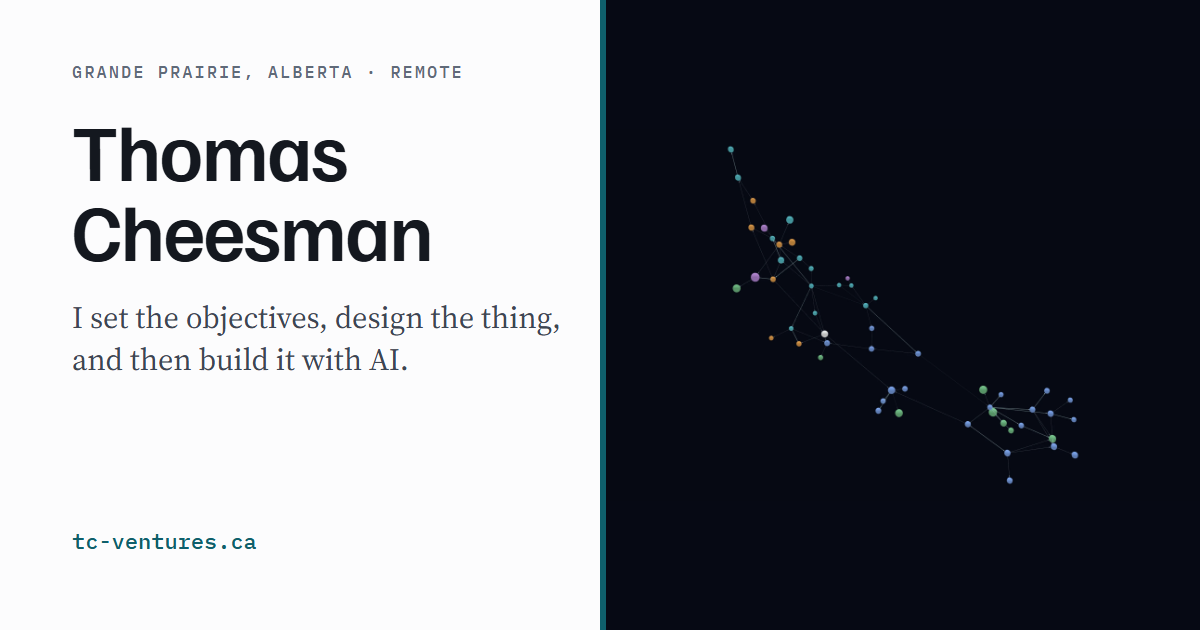
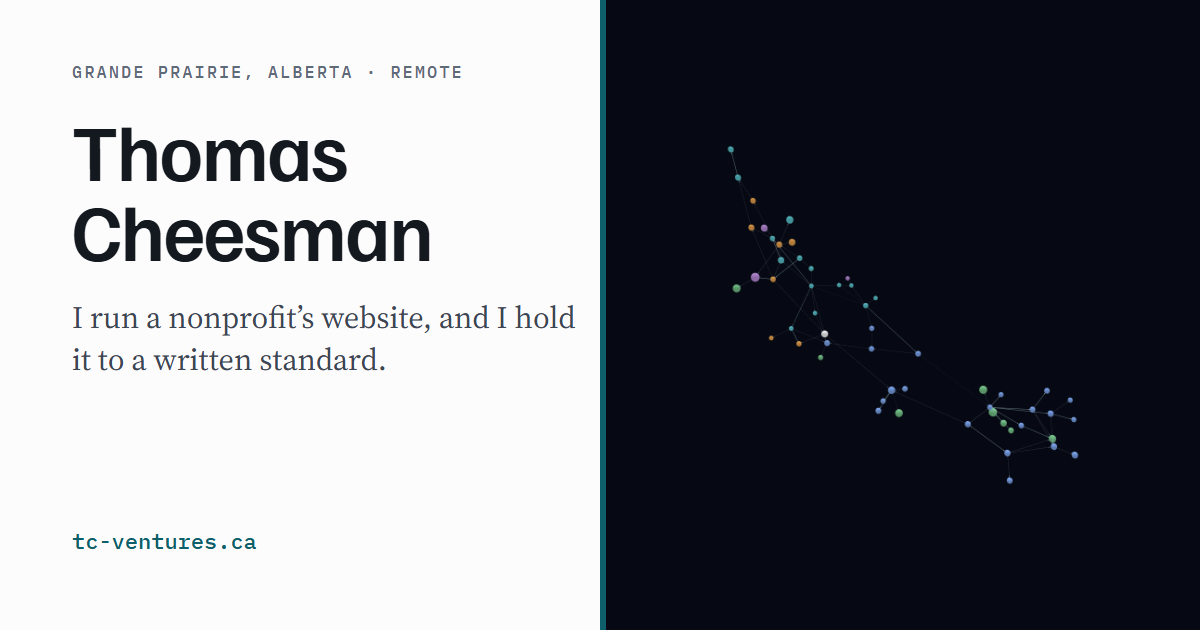
handoff header work, template and review

Changed region(s): [[0.0617, 0.4825, 0.4933, 0.6032]]

diff --git a/public/index.html b/public/index.html
@@ -3,15 +3,15 @@
 <head>
 <meta charset="utf-8">
 <meta name="viewport" content="width=device-width, initial-scale=1">
-<title>Thomas Cheesman - AI-assisted web builder</title>
-<meta name="description" content="Thomas Cheesman - I set the objectives, design the thing, and then build it with AI. Looking for remote work in web development, digital operations, accessibility or nonprofit technology.">
+<title>Thomas Cheesman - websites and digital operations for nonprofits</title>
+<meta name="description" content="Thomas Cheesman - I have run the website for a volunteer nonprofit housing society since 2023. Looking for remote work running a nonprofit&rsquo;s website and digital operations.">
 <link rel="canonical" href="https://tc-ventures.ca/">
 
 <meta property="og:type" content="website">
 <meta property="og:site_name" content="TC &rsquo;Ventures">
 <meta property="og:url" content="https://tc-ventures.ca/">
-<meta property="og:title" content="Thomas Cheesman - AI-assisted web builder">
-<meta property="og:description" content="I set the objectives, design the thing, and then build it with AI. Remote work in web development, digital operations, accessibility or nonprofit technology.">
+<meta property="og:title" content="Thomas Cheesman - websites and digital operations for nonprofits">
+<meta property="og:description" content="I run a nonprofit&rsquo;s website, and I hold it to a written standard. Looking for remote work running a nonprofit&rsquo;s website and digital operations.">
 <meta property="og:image" content="https://tc-ventures.ca/assets/img/og-card.png">
 <meta property="og:image:width" content="1200">
 <meta property="og:image:height" content="630">
@@ -44,19 +44,18 @@
 
   <section class="hero">
     <div class="wrap">
-      <p class="label">Grande Prairie, Alberta &middot; remote</p>
-      <h1>Thomas Cheesman</h1>
+      <p class="label">Thomas Cheesman &middot; Grande Prairie, Alberta &middot; remote</p>
+      <h1>I run a nonprofit&rsquo;s website, and I hold it to a written standard.</h1>
       <p class="hero__lede">
-        I run the website for a nonprofit and three more for practice and, eventually, work. I set
-        the objectives, design the thing, and then build it with AI. After seventeen years managing
-        cooks, a team of AI is the easy part; knowing what to tell it is not.
+        I have run the website for a volunteer nonprofit housing society since 2023, and built three
+        more sites from scratch, each a different design. I set the objectives, design the thing, and
+        then build it with help writing by AI. After seventeen years managing cooks, a team of AI is
+        the straightforward part; knowing how to tell it is not.
       </p>
       <p class="hero__body">
-        Seventeen years running kitchens, then a career change. I have shipped four live sites &mdash;
-        four deliberately different designs, not one template reused, this one included &mdash; and a research application
-        that maps nearly four thousand official statistical reports and the documented dependencies
-        between them. I am looking for remote work in web development, digital operations,
-        accessibility, or nonprofit technology.
+        I also built a research application that maps nearly four thousand official statistical
+        reports and the documented dependencies between them. I am looking for remote work running a
+        nonprofit&rsquo;s website and digital operations.
       </p>
       <p class="actions">
         <a class="btn btn--solid" href="/projects">See the projects</a>
@@ -178,8 +177,8 @@
     <div class="wrap narrow">
       <h2 class="section-head">What I am looking for</h2>
       <p>
-        Remote work in web development, digital operations, accessibility, or nonprofit technology.
-        I am most useful where a small product needs someone to own it end to end &mdash; deciding what
+        Remote work running the website and digital operations for a nonprofit or a small
+        organisation. I am also open to web development and accessibility roles. I am most useful where a small product needs someone to own it end to end &mdash; deciding what
         it should be, building it, and being accountable for whether it actually works.
       </p>
       <p>

diff --git a/public/work/_template.html b/public/work/_template.html
@@ -101,10 +101,9 @@
             </blockquote>
 
             <p>
-              I am job hunting, and I direct AI agents to build things. A hiring manager has no
-              reason to take that second part on trust, so the site had to be the proof: built
-              the same way, with the same rules, and with the working files left in the open.
-              [Confirm: is this how you would put it?]
+              I was looking for work, and &ldquo;I build with AI&rdquo; proves nothing on its own.
+              So the site had to show it: built to the same rules it describes, with the working
+              files left public for anyone to check.
             </p>
           </section>
 
@@ -237,8 +236,7 @@ Do not invent dates or figures. Unknown &rarr; ask.</pre>
                 <h3>&ldquo;Available now,&rdquo; five times</h3>
                 <p>
                   A claim that rots. It reads well the day it is written and reads badly the
-                  day someone finds the page after I have started somewhere. [Confirm the
-                  ruling: the live site now says &ldquo;open to work&rdquo;.]
+                  day someone finds the page after I have started somewhere.
                 </p>
                 <span class="mc__how"><b>Kind of miss:</b> over-selling &middot; <a class="receipt" href="https://github.com/DriftingSplash9/tc-ventures-site/blob/main/reviews/copy-review-001.md">copy-review-001, Q1</a></span>
               </li>
@@ -274,8 +272,8 @@ Do not invent dates or figures. Unknown &rarr; ask.</pre>
               <li>
                 <h3>Same review, question one</h3>
                 <p>
-                  The review flagged its own draft: five instances, a claim that rots, keep,
-                  soften or cut? [Confirm: softened to &ldquo;open to work&rdquo;.]
+                  The review flagged five instances of &ldquo;available now&rdquo; and asked: keep,
+                  soften or cut? All five became &ldquo;open to work&rdquo;.
                 </p>
                 <span class="mc__how"><b>Became the rule:</b> hiring voice &mdash; first person, past tense, verifiable, no selling &middot; <a class="receipt" href="https://github.com/DriftingSplash9/tc-ventures-site/blob/main/reviews/copy-review-001.md">copy-review-001, Q1</a></span>
               </li>
@@ -345,8 +343,7 @@ Do not invent dates or figures. Unknown &rarr; ask.</pre>
             <p>
               As of September 2026 this is a skeleton: the pages say what I built and assert how
               I work, and this rebuild is what makes the second part visible. The accessibility
-              pass is mine to do once the design and the copy are final, not before. [Confirm
-              wording.]
+              pass is mine to do once the design and the copy are final, not before.
             </p>
           </section>
 

diff --git a/public/og-src/og.html b/public/og-src/og.html
@@ -17,6 +17,6 @@ p.d{font:400 31px/1.35 'Source Serif 4',serif;color:#3D4653;margin:0;max-width:1
 </style></head><body><div class="c"><div class="t">
 <p class="l">Grande Prairie, Alberta &middot; remote</p>
 <h1>Thomas<br>Cheesman</h1>
-<p class="d">I set the objectives, design the thing, and then build it with AI.</p>
+<p class="d">I run a nonprofit&rsquo;s website, and I hold it to a written standard.</p>
 <p class="u">tc-ventures.ca</p>
 </div><div class="f"><img src="/assets/img/graph-gp-budget.webp" alt=""></div></div></body></html>

diff --git a/public/assets/style.css b/public/assets/style.css
@@ -251,6 +251,9 @@ h1 {
   margin: 0.28em 0 0;
 }
 
+/* the home h1 is a sentence, not a name (copy-review-002 R2): cap its line length */
+.hero h1 { max-width: 20ch; }
+
 .hero__lede {
   font-size: clamp(1.2rem, 2.4vw, 1.45rem);
   line-height: 1.5;

diff --git a/handoff-015.md b/handoff-015.md
@@ -4,8 +4,10 @@
 **Covers:** a baseline site audit (given in chat), then **Phase 0** of the action plan
 from it: clean URLs, security headers, a real link-preview image, the template taken
 off the live site, and a copy review of the home page's first screen.
-**Status at wrap:** written to disk, verified on a local server that applies the new
-`_headers`. **Not deployed.** Copy-review-002 is **not ruled on**.
+**Status at wrap:** Phase 0 **deployed and verified live** (Thomas pushed mid-session).
+Later in the session, and **on disk, not yet deployed**: copy-review-002 rulings applied
+to the home page, the CSP fix for Cloudflare's analytics beacon, the re-rendered card,
+the template brackets resolved, and brief-001 redacted.
 
 ---
 
@@ -89,6 +91,34 @@ home hero), not a WebGL agency showreel. He then said "start with phase 0".
   **Not verified:** the headers on live Cloudflare (needs a push), or the LinkedIn
   and Facebook preview debuggers.
 
+**Second half of the session (after Thomas's rulings):**
+
+- **Phase 0 verified live:** all seven headers served, `/projects` 200 with no
+  redirect, `/work/_template` + `/og-src/` + `/_headers` + `/.assetsignore` all 404,
+  fonts `immutable`, and the live graph renders under the CSP.
+- **Found live: the CSP was blocking Cloudflare Web Analytics.** Cloudflare injects
+  `static.cloudflareinsights.com/beacon.min.js` at the edge, so a local server never
+  sees it. Analytics were silently off from the Phase 0 push. `_headers` now allows
+  `https://static.cloudflareinsights.com` (script) and `https://cloudflareinsights.com`
+  (connect). **On disk, needs a push.**
+- **copy-review-002 applied** to `index.html`: R1 A (title + og:title), R2 A (name
+  moved to the label; H1 is the sentence; `.hero h1 { max-width: 20ch; }` added to
+  `style.css`), R3 OK, **R4 in Thomas's own words**, R5 OK, R6 OK (both sentences).
+  Meta and og descriptions rebuilt from the ruled sentences only. The one edit to his
+  R4 text: "straight forward" to "straightforward". The card (`og-card.png`) was
+  re-rendered with the R2 sentence, because its old line was the pre-R4 wording.
+- **Template approved** (PL-3: "yes"). The four `[Confirm...]` brackets are resolved:
+  "the ask" rewritten as a suggestion (he said FIX, asked for one); both halves of
+  the "available now" miss/catch pair state the fact once (handoff-002 records the
+  change to "open to work"); "honest limits" OK as written.
+- **brief-001 redacted** for use as a receipt: the lander bullet, the exact counts, and
+  "hand and arm pain" (symptom detail, against the Hajdu-Cheney rule) replaced with
+  `[redacted: ...]` markers, with a dated note at the top. **Git history still has the
+  original**; the redaction is presentation, not secrecy.
+- **Resume:** Thomas attached `Family & Personal\resume\Thomas Cheesma1.docx`. It is
+  dated **April 2025**, an old version (lists "basic Java", no tc-ventures.ca,
+  and it names his former caregiving client). Neither file was touched. See C-15.
+
 ### Traps worth knowing
 
 - **`.cs-section > *` is deliberately one class of specificity.** It sets the reading
@@ -112,6 +142,11 @@ home hero), not a WebGL agency showreel. He then said "start with phase 0".
 - **An HTML comment inside `<style>` silently kills the next CSS rule.** Cost one
   re-render.
 - **Any new inline `<script>` will be blocked by the CSP.** Put it in `/assets/*.js`.
+- **Cloudflare injects scripts at the edge** (Web Analytics beacon), so a CSP that passes
+  on a local server can still break things live. After any CSP change, load the live
+  site and read the console.
+- **`_template.html` had four `[Confirm...]` brackets, not three.** The miss/catch pair
+  on "available now" carried one each. Grep, don't count from memory.
 - Every trap in handoff-011, -012 and -013 §2 still stands.
 
 ## 3. Current design
@@ -177,18 +212,19 @@ small mono links with a leading `→`, the same everywhere.
 ### PLAN
 | # | Item | Notes |
 |---|---|---|
-| PL-6 | **Audit action plan, 2026-09-22** | Phase 0 done (bar C-12). Phase 1: receipts inventory (PL-2), then **two** case studies first, `/work/gprs` and `/work/this-site`, then `/method`. Phase 2: the build ledger as the home hero (static SVG, works without JS). Phase 3: CSS View Transitions, scroll-driven CSS with reduced-motion fallback, a bolder type scale, receipt previews via the HTML `popover` attribute, per-page OG cards. Phase 4: engineering pass, then CSSDA/Godly, then Awwwards. **Thomas has not ruled** on "craft within the rules" versus a showreel aimed at creative/agency roles. |
+| PL-6 | **Audit action plan, 2026-09-22; direction RULED** | Thomas: **"Awwwards - novel designs and motions, it needs all the accessibility toggles, I don't want a generic app like A11y taking over the features."** So: novel design and motion are in scope (Phase 3 grows). Accessibility controls are **built into the site**, never a third-party overlay widget. OS preferences (reduced motion, colour scheme, contrast) are the defaults; on-page toggles override them and persist. Standing rules still hold: the words render without JS, heavy things load on demand. Phase 1 (receipts, two case studies, `/method`) still comes before Phase 3. |
 | PL-1 | **plan-001 approved 2026-09-21** | `plans/plan-001-showcase.md` §6 holds his answers: lead role **nonprofit technology** (he can overrule); home wow **A, the build ledger**; curated process excerpts **allowed**; **GPRS gets its own case study**; page-weight and accessibility results shown once inside `/work/this-site` by default, pending his word. |
 | PL-2 | Session 1: receipts inventory — **still open, skipped in favour of session 2** | List every real "AI got it wrong / how caught" story with its file and date, from handoffs 001–014, `reviews/copy-review-001.md`, the Reports Clustering playbooks and validator, and the BYR audit. **Never invent one.** |
-| PL-3 | **Session 2 built, awaiting Thomas's yes/no** | `public/work/_template.html` + the CSS block. He needs to look at it (locally or after a push — it is unlinked and noindexed) and rule on layout, rail, numbering, receipts style, loop diagram. Then session 3 (Method page) or session 1. |
-| PL-4 | Sample copy in the template carries `[Confirm …]` brackets | Three rulings to confirm before any of it is reused: how he'd phrase "the ask" for this site; that "Available now" was softened to "open to work" on his ruling (Q1 in copy-review-001); the "honest limits" wording. |
-| PL-5 | `brief-001` as a public receipt | See §2 traps. Decide before the this-site case study ships. |
+| PL-3 | **Template approved by Thomas 2026-09-22** | Layout, rail, numbering, receipts, loop diagram, miss/catch: yes. Copy in it still ships only through a copy review. |
+| PL-4 | Template brackets resolved; **"the ask" paragraph is Claude's suggestion** | Thomas said FIX and asked for a suggestion. The new wording is in `_template.html` section 01. Confirm it in the `/work/this-site` copy review. |
+| PL-5 | brief-001 **redacted 2026-09-22** (Thomas: "redact") | The current file is clean; the git history is not. Only a history rewrite would change that, and nobody has asked for one. |
 
 ### COPY
 | # | Item | Notes |
 |---|---|---|
-| C-12 | **`reviews/copy-review-002.md`: R1–R6 awaiting Thomas** | Home page only. Q1 answered (GPRS site since 2023, yes) and Q2 answered (LinkedIn, now in every footer). Apply his R rulings to `index.html` only. If R1 changes, update `og:title` and `<title>` to match. |
+| C-12 | **copy-review-002 ruled and applied 2026-09-22** | Closes on push. Flagged to Thomas: R4 now reads "build it with help writing by AI" (his words). Offer, don't impose: "...with AI writing the code". |
 | C-13 | **GPRS site history, from Thomas 2026-09-22** | First version on WordPress.com in 2023; rebuilt in 2025 as self-hosted WordPress.org on Hostinger, for more freedom to experiment with the code. For `/work/gprs`. Do not add month-level dates without asking. |
+| C-15 | **Which resume file?** | The attached `Thomas Cheesma1.docx` (April 2025) is older than the repo source (`resume/Thomas-Cheesman-Resume-source.docx`, 2026-09-20). Ask which is current. **Also:** the current resume's summary is the *old* home lede ("...three more for practice..."). It should follow the R3/R4/R5 rulings. Two-page rule; Thomas exports the PDF. |
 | C-14 | LinkedIn on the résumé? | Not on it now. The Word file is his; suggest, do not edit. When structured data lands (Phase 4), the URL goes in `Person.sameAs`. |
 | C-9 | **`page-thomas.php` ~2010: "I couldn't get past my kitchen manager"** | Reads oddly now that he was the kitchen manager from ~2006. It may mean the senior manager above him. His prose and his call — flag it, do not rewrite it. |
 | C-11 | **Education, settled by Thomas 2026-09-20** | Four academic years at GPRC (now Northwestern Polytechnic), fall 1999 to spring 2003: **B.Sc. Pre-Pharmacy credits, 1999–2002** (three academic years), then **Power Engineering 4th Class and Class 3B plus Gas Plant Operations Levels I and II, 2002–2003**. Journeyman Chef, Red Seal, SAIT, 2012. The rebuilt .docx carries exactly this. `resume/resume-source.html` already has the B.Sc. span right; what it lacks is the Power Engineering dates, Class 3B and the college's name (see C-8 on the render path). |
@@ -213,7 +249,7 @@ small mono links with a leading `→`, the same everywhere.
 |---|---|---|
 | INFRA-4 | Permanent email undecided | `thomas@tc-ventures.ca` works; he wants a non-general address within weeks. |
 | INFRA-6 | Dead lander CSS | The lander block in `public/assets/style.css` (search `lander embed`) is unused and harmless; kept so restoring the page would be a file move. Delete it if still unused by mid-October 2026. |
-| INFRA-8 | **Verify headers live after push** | `curl -sI https://tc-ventures.ca/` should show the CSP and HSTS headers. `/projects` should be 200 with no redirect, and `/work/_template` should be 404. Load the graph on live /projects and check the console. Then paste the URL into LinkedIn's Post Inspector to refresh the preview cache. |
+| INFRA-8 | **Phase 0 verified live 2026-09-22** | Remaining after the next push: the console on live `/` shows no CSP error for `cloudflareinsights`, and Web Analytics shows visits again. Paste the URL into LinkedIn's Post Inspector to refresh the preview. |
 | INFRA-9 | HSTS is 1 year, no `includeSubDomains`, no `preload` | Deliberate: both are hard to undo. Revisit only if every subdomain is HTTPS-only. |
 
 ### DOMAIN
@@ -292,12 +328,13 @@ Every handoff has these, in this order, with these numbers:
 
 In order:
 
-1. **Thomas pushes**; the next agent does **INFRA-8** (verify headers, clean URLs,
-   template 404, graph under CSP, LinkedIn preview) before anything else.
-2. **C-12:** Thomas rules on copy-review-002; apply it to `index.html`.
-3. **PL-3 / PL-4 / PL-5** from handoff-014: his yes/no on the template (preview it
-   locally now; it no longer deploys), the bracketed confirmations, brief-001.
-4. **Plan session 1** (PL-2, the receipts inventory), then the two case studies (PL-6).
-5. **Thomas pushes the theme** for the O-9 paragraph and purges all three
-   thomascheesman.ca caches; verify /hcs serves it.
-6. **D-3:** confirm the Professional Email renewal is paid before 8 October.
+1. **Thomas pushes** (home copy, analytics CSP fix, card, template, brief). Then check
+   the live console for CSP errors (INFRA-8) and run LinkedIn's Post Inspector.
+2. **C-15:** which resume file is current; bring its summary in line with R3 to R5 and
+   add LinkedIn (C-14). Thomas exports the PDF, two pages.
+3. **Plan session 1** (PL-2, the receipts inventory).
+4. The two case studies (`/work/gprs` with C-13, `/work/this-site`), then `/method`.
+5. **Phase 3 design** per the PL-6 ruling: a proposal first (motion concept +
+   accessibility-controls panel), built only after he says yes.
+6. **Thomas pushes the theme** for O-9 and purges all three thomascheesman.ca caches.
+7. **D-3:** Professional Email renewal paid before 8 October.

diff --git a/briefs/brief-001-wow-and-contact.md b/briefs/brief-001-wow-and-contact.md
@@ -3,6 +3,9 @@
 **For:** a fresh agent picking up tc-ventures.ca
 **From:** Thomas Cheesman (owner, and the person whose judgement decides what ships)
 **Repo:** `C:\Users\thoma\Desktop\My Files\Website Projects\tc-ventures site`
+**Redacted 2026-09-22** for use as a public receipt: one private project, exact counts
+and one personal note removed, each marked `[redacted]` where it was. Nothing else
+changed. Thomas's own words, in the quote below, are untouched.
 **Read first:** `handoff-001.md` at repo root. It carries current state, what is
 already built, what is live, and the open decisions. Do not start from this brief
 alone.
@@ -37,16 +40,14 @@ free, everyone has them, and they signal the opposite of craft.
 
 The wow should come from **Thomas's own material**, which is unusually good:
 
-- **The Economic Report Influence Graph** — 3,632 real published reports, 3,272
-  documented dependencies, drawn in 3D in a browser. A built copy of it already
+- **The Economic Report Influence Graph** — [redacted: exact counts] real published
+  reports and their documented dependencies, drawn in 3D in a browser. A built copy of it already
   exists at `assets/report-graph/` in the *other* repo (the thomascheesman.ca
   theme) and is served there at `/reports-graph`. Getting a version of that graph
   onto this site — live, interactive, not a screenshot — is the single strongest
   available move. Consider a reduced, fast-loading "hero" subgraph rather than the
-  full 3,600-node corpus.
-- **Rocket Lander** — a real aerodynamic flight model. Terminal 61 m/s belly-down,
-  190+ nose-first, glide ratio 0.26 at 25° off broadside, flip committed by 300 m.
-  Those numbers can drive something on the page rather than being listed as text.
+  full corpus.
+- [redacted: a second project, since made private]
 - **The evidence discipline** — every edge in the graph carries an A/B/C grade for
   how well its citation supports it. A portfolio that visibly grades its own claims
   is a genuinely unusual idea and is true to how he works.
@@ -119,7 +120,7 @@ The bar: someone should read this page and feel *more* likely to write, not mere
 - He is not a trained programmer. He spent 17 years running kitchens. Explain the
   *why* behind architectural decisions at a medium register — don't over-explain
   git or CLI basics, don't assume framework vocabulary.
-- He has hand and arm pain. Give complete, uncut code and complete file contents.
+- [redacted: personal note]. Give complete, uncut code and complete file contents.
   Never "…rest unchanged". Never make him retype things.
 - He wants honest assessment and will correct you firmly if you are wrong. When he
   does, acknowledge it and move on — no defensiveness, no grovelling.

diff --git a/reviews/copy-review-002.md b/reviews/copy-review-002.md
@@ -3,7 +3,11 @@
 **Written:** 2026-09-22
 **Why:** Phase 0 of the 2026-09-22 site audit. The home page's first screen
 undersells the work and still points at four roles when plan-001 §6 Q1 chose one.
-**Status:** Q1 and Q2 answered 2026-09-22. **R1–R6 not yet ruled.**
+**Status:** all ruled 2026-09-22 and applied to `index.html`: **R1 A · R2 A · R3 OK ·
+R4 his own wording (below) · R5 OK · R6 OK** · Q1 yes · Q2 URL given.
+R4 as ruled: "I set the objectives, design the thing, and then build it with help
+writing by AI. After seventeen years managing cooks, a team of AI is the straight
+forward part; knowing how to tell it is not." Shipped with "straightforward" as one word.
 **Scope:** `public/index.html` only — title, meta, hero, and the "What I am looking
 for" band. Nothing here is live; the current wording stays until you rule.
 Facts used below all come from the live site, plan-001 or copy-review-001. Nothing new
